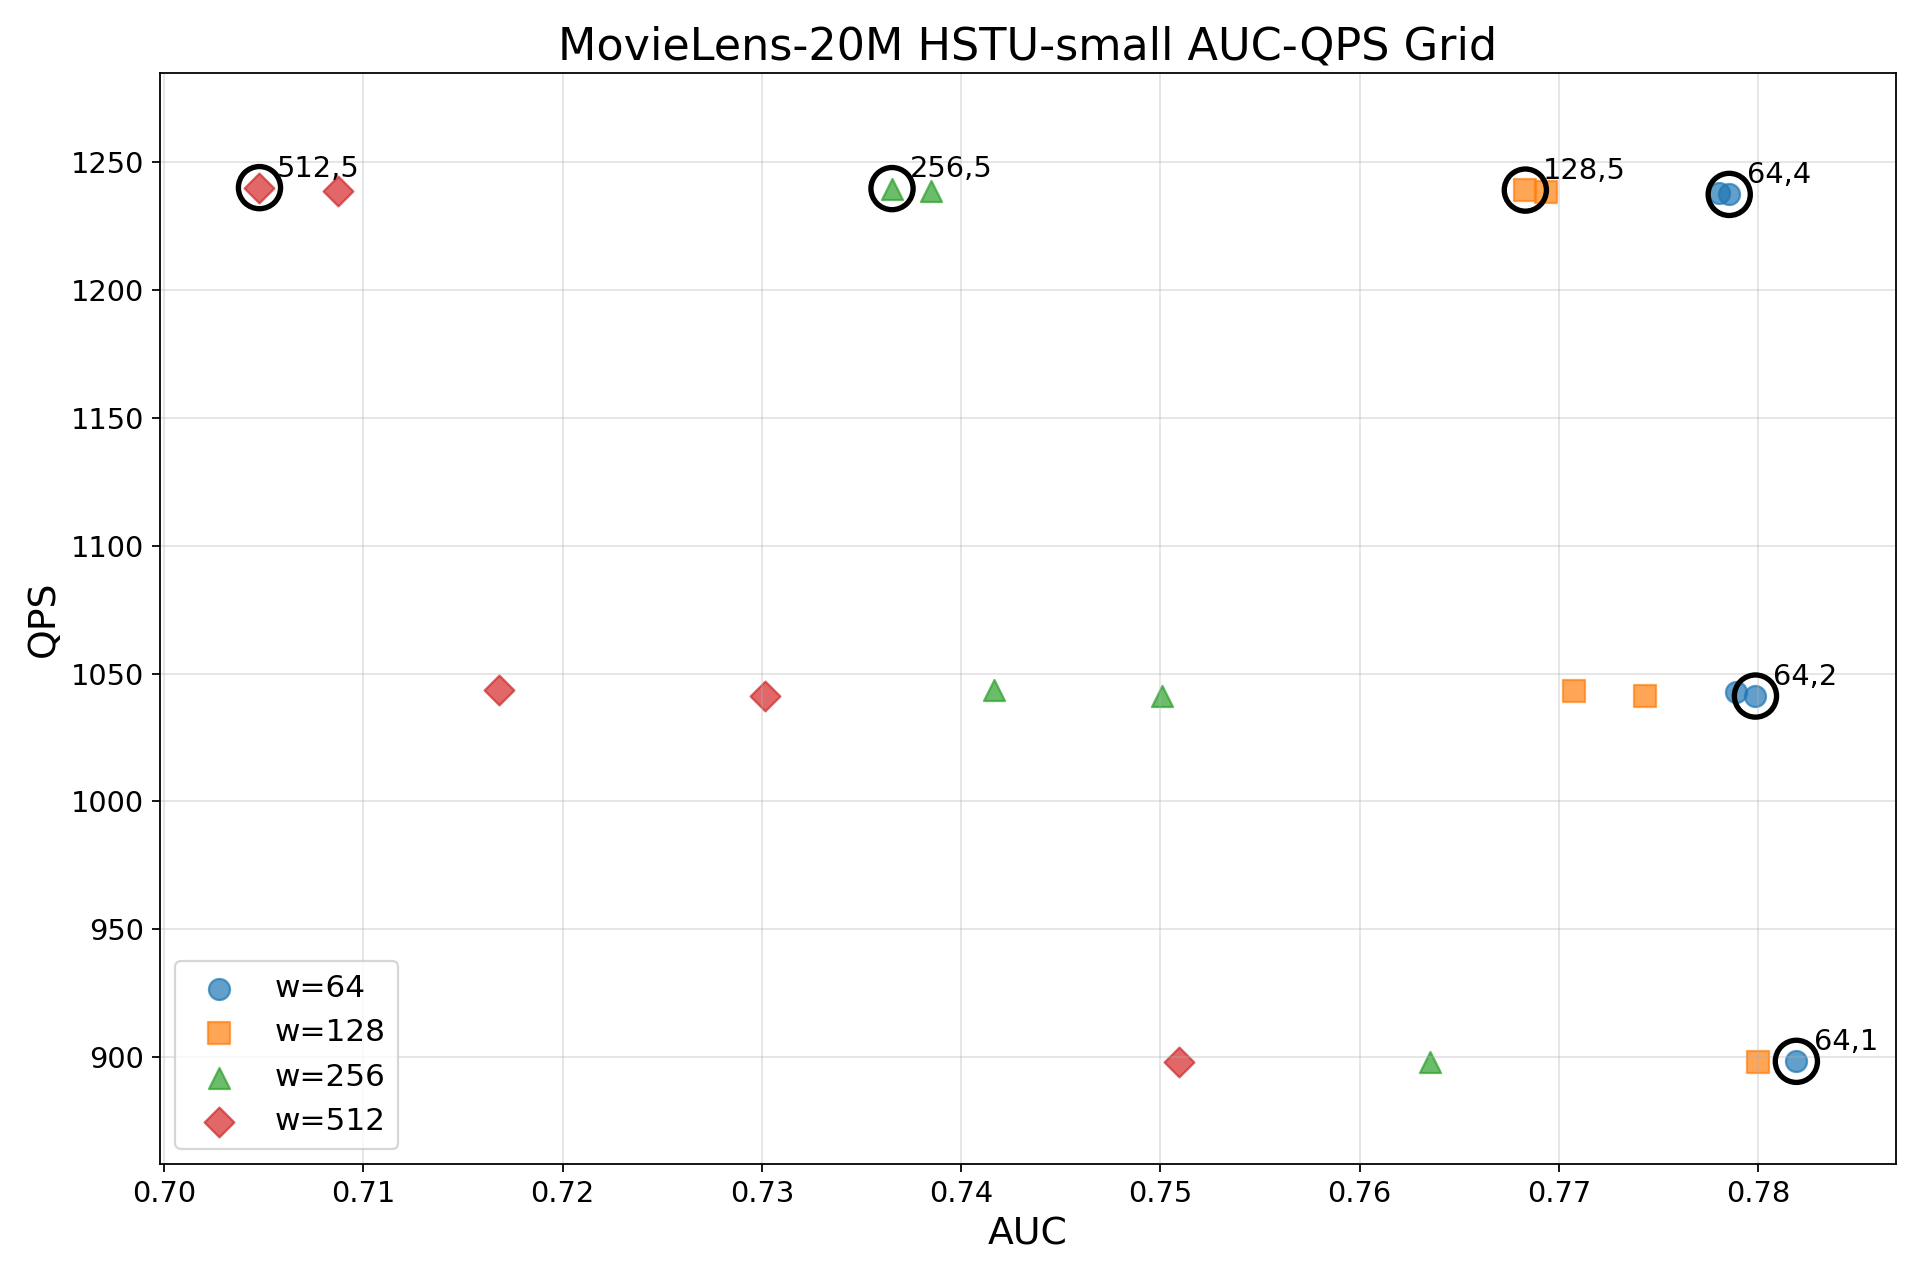
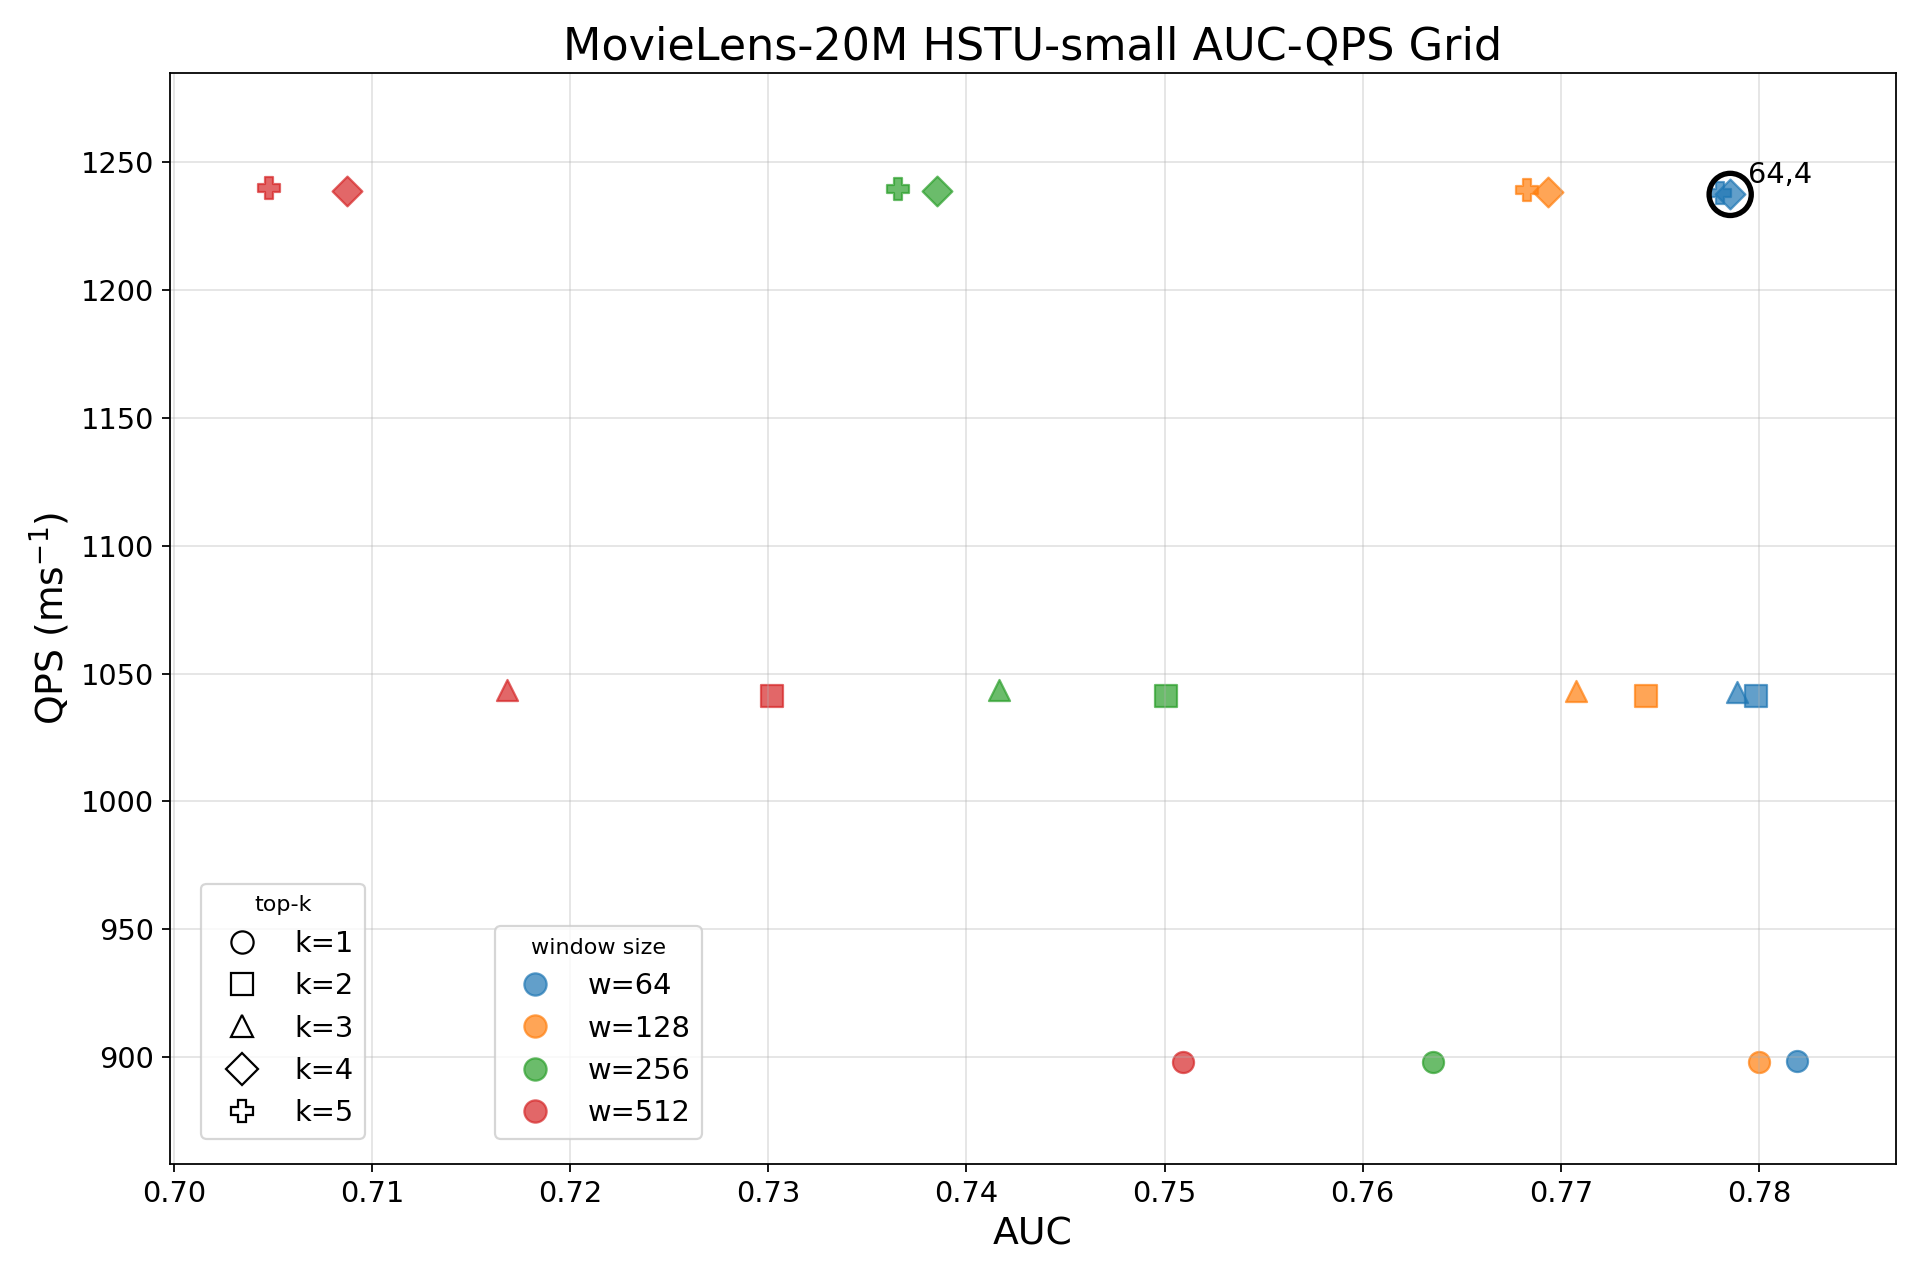
merge

diff --git a/src/operations/Elementwise.cc b/src/operations/Elementwise.cc
@@ -77,7 +77,10 @@ void Elementwise::initialize_instructions(Tile* tile, uint32_t element_offset,
 
   uint32_t bytes = elements * _config.precision;
   addr_type lhs_spad = SPAD_BASE;
-  addr_type rhs_spad = SPAD_BASE + _config.align_address(bytes);
+  auto align_up = [](uint64_t x, uint64_t align) {
+    return align == 0 ? x : ((x + align - 1) / align) * align;
+  };
+  addr_type rhs_spad = SPAD_BASE + align_up(bytes, _config.dram_req_size);
 
   std::set<addr_type> lhs_addrs;
   std::set<addr_type> rhs_addrs;
